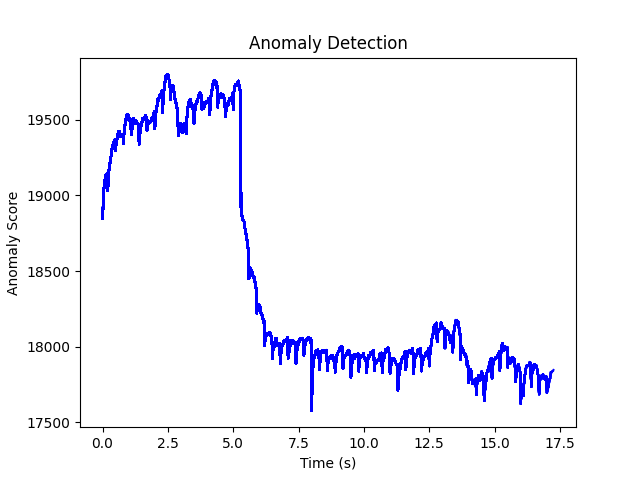
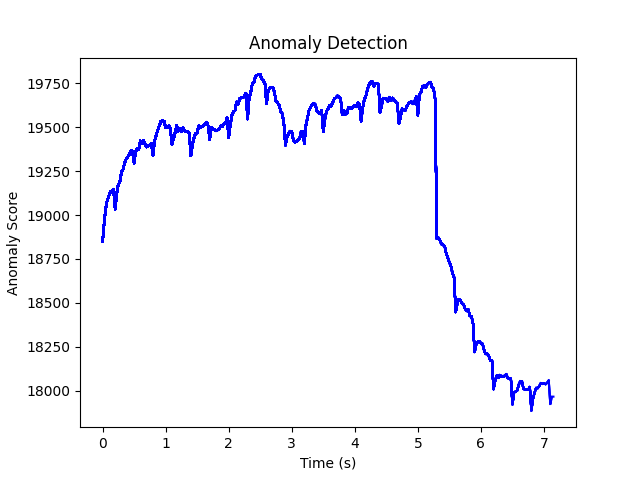
anomaly analysis integration

diff --git a/inference.py b/inference.py
@@ -6,6 +6,9 @@ import torchvision.transforms as transforms
 import json
 import matplotlib.pyplot as plt
 import torchvision
+import json
+import numpy as np
+from collections import defaultdict
 
 class Autoencoder(nn.Module):
     def __init__(self):
@@ -63,7 +66,7 @@ class Inference():
             # Update the output JSON
             self.update_json_with_timestamp(output_json, timestamps[-1], error)
             self.plot_anomaly_scores(timestamps, anomaly_scores,plot_path)
-            # self.detect_anomalies(output_json, 5, 2.0,anomalies_path)
+            self.detect_anomalies(output_json, 5, 3,4,2,anomalies_path)
 
 
         cap.release()
@@ -82,32 +85,34 @@ class Inference():
         with open(output_json, 'w') as f:
             json.dump(data, f)
 
-    # def detect_anomalies(self, json_path, window_size, threshold, anomalies_path):
-    #     with open(json_path, 'r') as f:
-    #         data = json.load(f)
+    def detect_anomalies(self,json_path, window_size, min_duration, max_duration, top_k, output_anomalies_path):
+        with open(json_path, 'r') as f:
+            data = json.load(f)
+        
+        timestamps = list(map(float, data.keys()))
+        scores = list(data.values())
 
-    #     timestamps = list(map(float, data.keys()))
-    #     scores = list(data.values())
+        heightened_periods = defaultdict(float)
+        max_heightened_score = 0.0
+        start_time = 0
 
-    #     if len(scores) < window_size:
-    #         print(f'Not enough data points for window size {window_size}. Skipping detection.')
-    #         return []
+        for i in range(len(scores)):
+            if i - window_size >= 0:
+                avg_score = np.mean(scores[i-window_size+1:i+1])
+                heightened_periods[(start_time, timestamps[i])] = avg_score
+                max_heightened_score = max(max_heightened_score, avg_score)
 
-    #     rolling_mean = np.convolve(scores, np.ones(window_size) / window_size, mode='valid')
-    #     rolling_std = np.std([scores[i:i+window_size] for i in range(len(scores) - window_size + 1)], axis=0)
-    #     z_scores = (scores[window_size-1:] - rolling_mean) / rolling_std
+            if scores[i] > max_heightened_score:
+                start_time = timestamps[i]
+                max_heightened_score = scores[i]
 
-    #     anomalies = []
-
-    #     for i, z_score in enumerate(z_scores):
-    #         if z_score > threshold:
-    #             anomaly_period = timestamps[i:i+window_size]
-    #             anomalies.append(anomaly_period)
-
-    #     with open(anomalies_path, 'w') as f:
-    #         json.dump(anomalies, f)
-
-    #     return anomalies
+        sorted_periods = sorted(heightened_periods.items(), key=lambda x: x[1], reverse=True)
+        filtered_periods = [(start, end, score) for (start, end), score in sorted_periods 
+                            if end - start >= min_duration and end - start <= max_duration]
+        
+        
+        with open(output_anomalies_path, 'w') as f:
+            json.dump(filtered_periods[:top_k], f)
 
 
     def plot_anomaly_scores(self,timestamps, anomaly_scores, save_path):
@@ -124,9 +129,9 @@ model.load_state_dict(torch.load('models/anomaly_detector.pth', map_location='cp
 model.eval()
 
 video_path = 'data/anomaly/theftPick.avi'
-output_json = 'results/output2.json'
-plot_path = 'results/plot2.png'
-anomalies_path = 'results/anomalies.json'
+output_json = 'results/output-demo.json'
+plot_path = 'results/plot-demo.png'
+anomalies_path = 'results/anomalies-demo.json'
 
 inf = Inference()
 inf.process_video(model, video_path, output_json,plot_path,anomalies_path)
